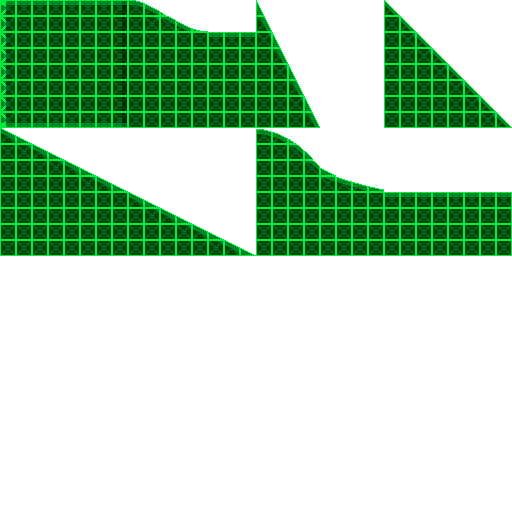
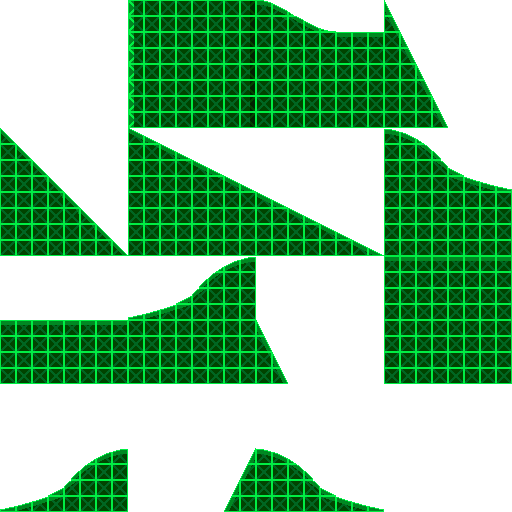
Changes to R1Z1

diff --git a/assets/pre/levels/R1/128x128.tsx b/assets/pre/levels/R1/128x128.tsx
@@ -1,4 +1,4 @@
 <?xml version="1.0" encoding="UTF-8"?>
-<tileset version="1.10" tiledversion="1.11.0" name="128x128" tilewidth="128" tileheight="128" tilecount="36" columns="6">
- <image source="../../../../../../test/testlevel/128x128.png" width="768" height="768"/>
+<tileset version="1.10" tiledversion="1.11.0" name="128x128" tilewidth="128" tileheight="128" tilecount="36" columns="4">
+ <image source="128.png" width="512" height="512"/>
 </tileset>
